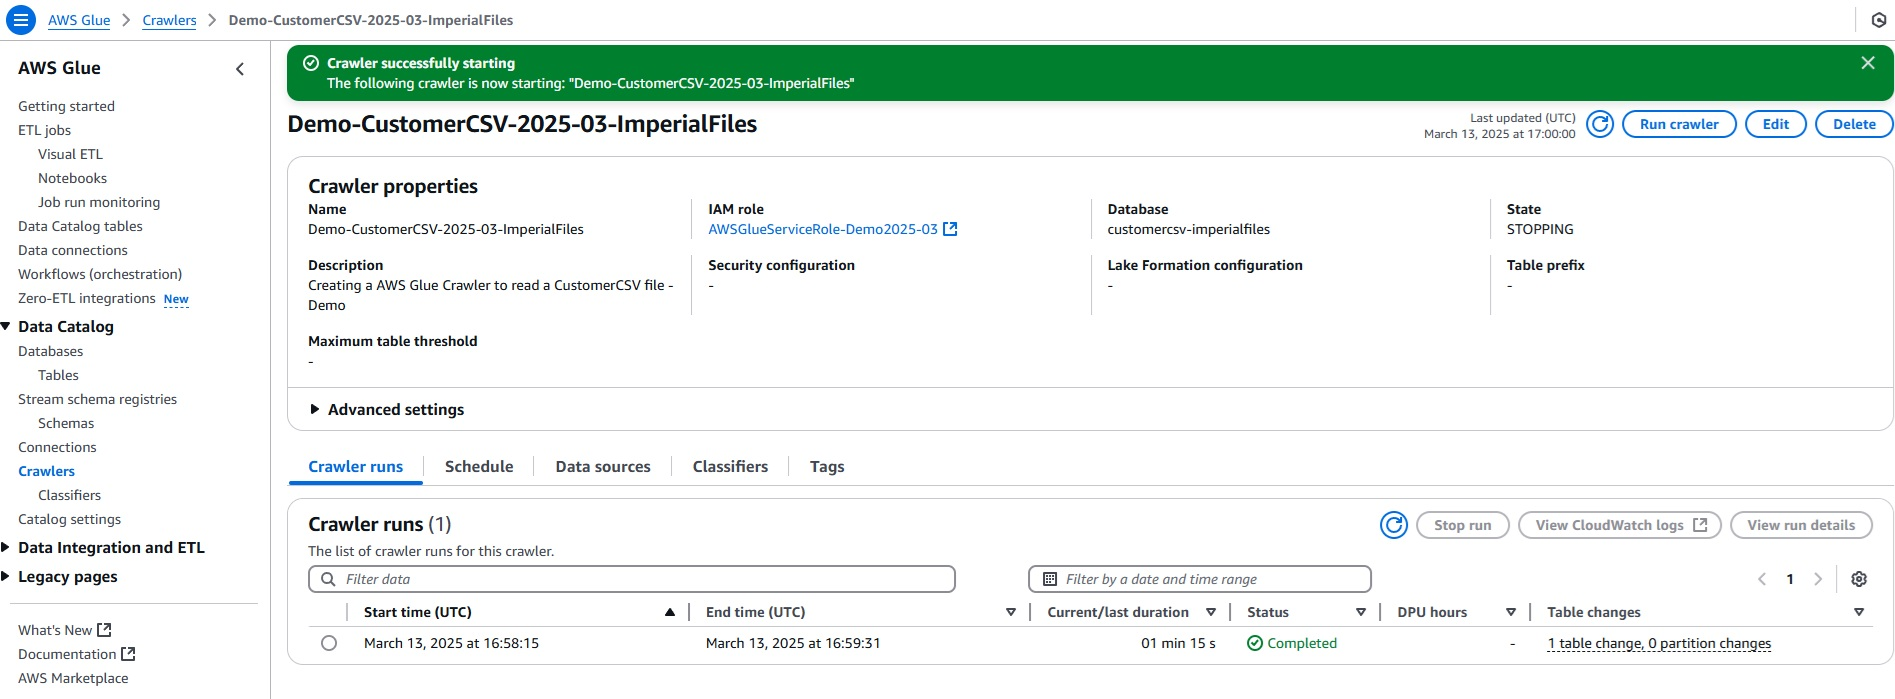
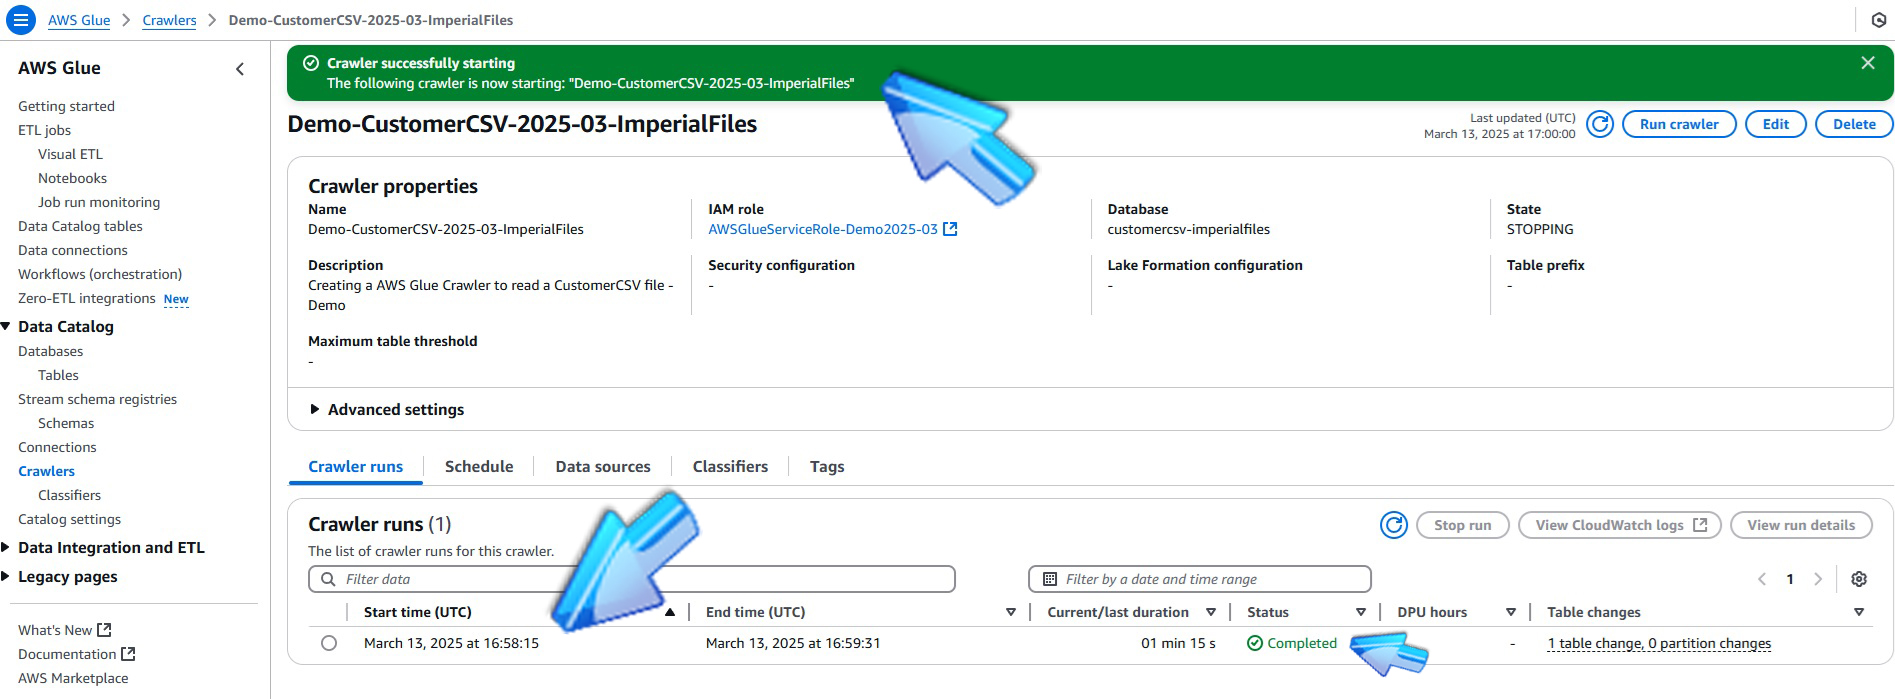
Update AWS Glue documentation with new images for running the crawler

diff --git a/thisisthelab.md b/thisisthelab.md
@@ -189,5 +189,16 @@
 
 ![AWS Glue Create Crawler](./images/23a-AWSGlueCrawlerFinalScreen.jpg)
 
+# 3.6 - AWS Glue - Run Crawler
+
+###### ![Brazil](https://github.com/Acheroniano/flag-icon/blob/master/png/16/country-4x3/br.png "Brazil") 
+###### Clique no botão *RUN CRAWLER* para iniciar a execução do Crawler.
+
+###### ![United States](https://github.com/Acheroniano/flag-icon/blob/master/png/16/country-4x3/us.png "United States") 
+###### Click on the *RUN CRAWLER* button to start the Crawler execution.
+
+![AWS Run Crawler](./images/24a-AWSGlueCrawlerFinalScreen2.jpg)
+![AWS Run Crawler Success](./images/25a-AWSGlueCrawlerRUNSuccess.jpg)
+
 
 
